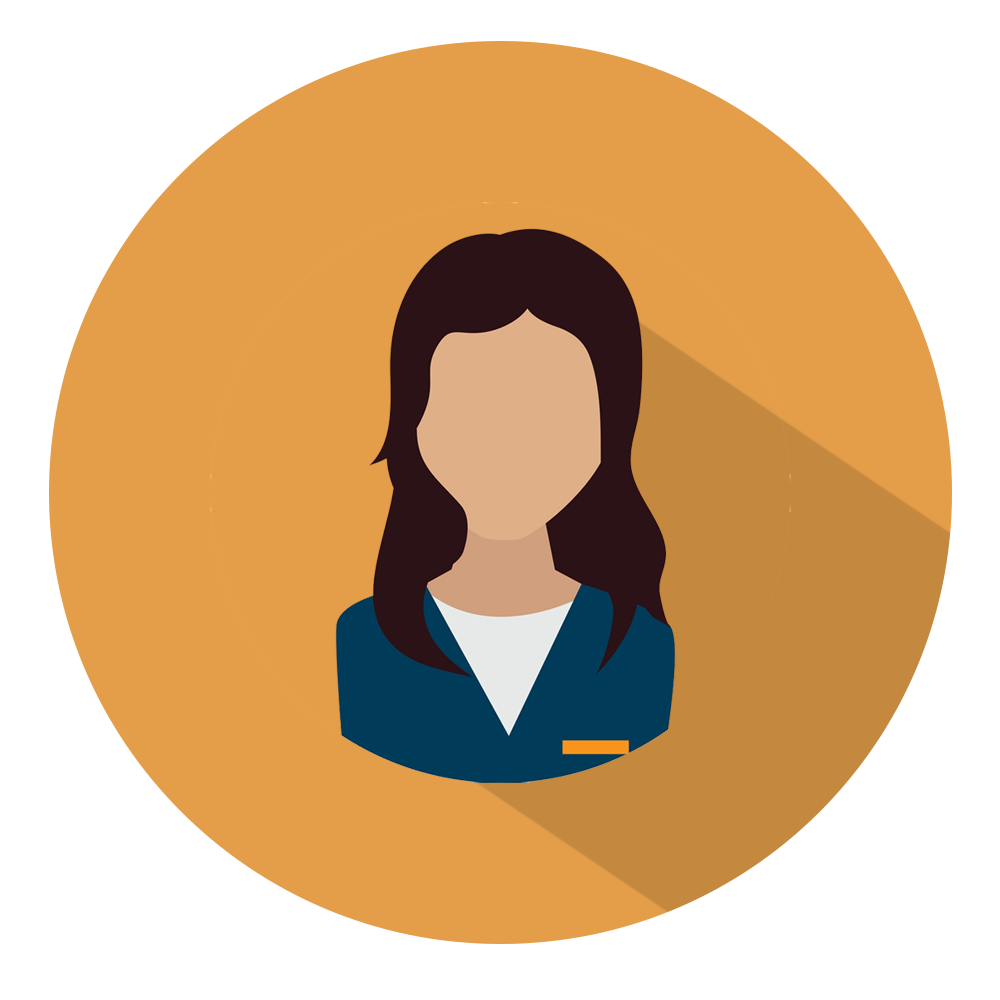
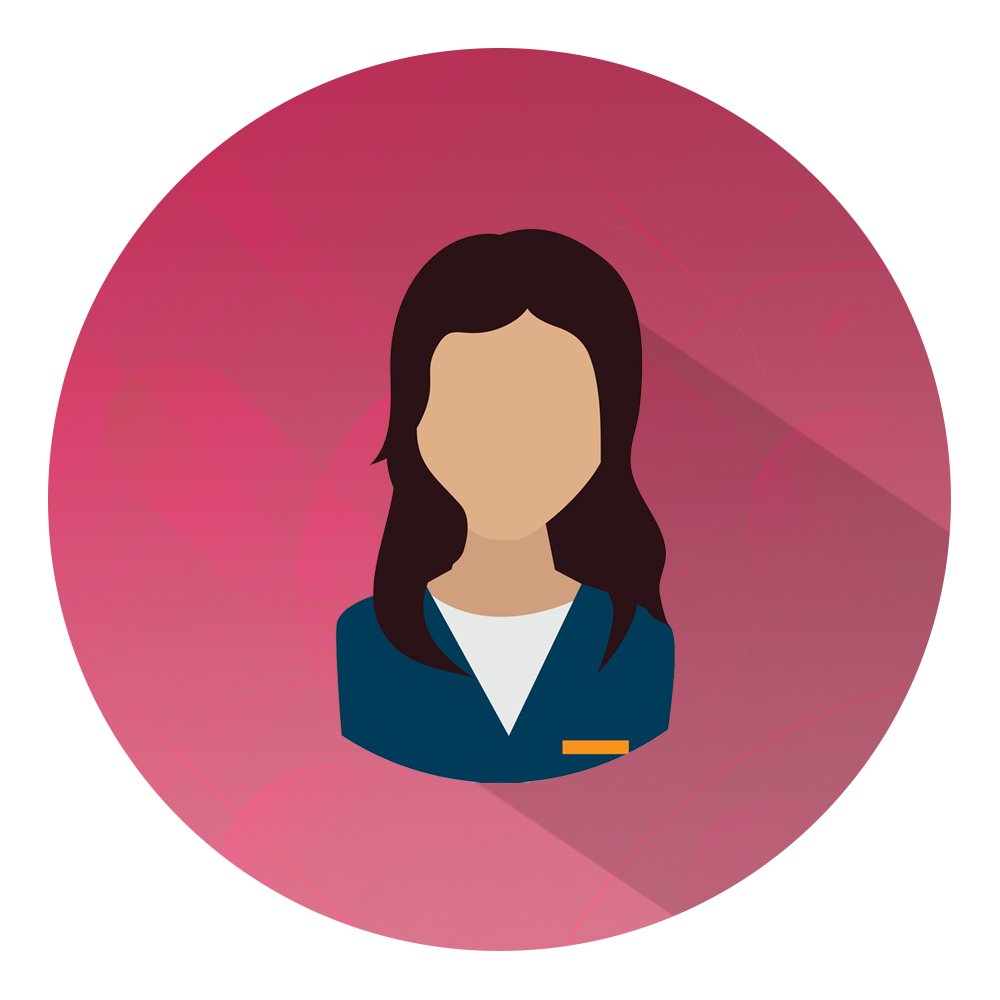
Changing somethings for identity purpose

diff --git a/assets/css/classes.css b/assets/css/classes.css
@@ -59,7 +59,7 @@ h1,h2,h3,h4,h5,h6,p,a{
   font-size: 26px;
   color: white;
   padding: 20px;
-  border: 2px #ffcc8e solid;
+  border: 2px #e87892 solid;
   border-radius: 30px;
   transition: all 0.4s ease;
 
@@ -69,8 +69,8 @@ h1,h2,h3,h4,h5,h6,p,a{
 {
   text-decoration: none;
   color: White;
-  background: #e49e49;
-  border: 2px #e49e49 solid;
+  background: #e87892;
+  border: 2px #e87892 solid;
 
   transition: all 0.4s ease;
 
@@ -108,7 +108,7 @@ h1,h2,h3,h4,h5,h6,p,a{
 
 .home-underabout
 {
-  border-bottom: 4px #f5740f solid;
+  border-bottom: 4px #ea0e4f  solid;
   padding-bottom: 7px;
 }
 

diff --git a/assets/css/main.css b/assets/css/main.css
@@ -129,7 +129,7 @@ footer .fab
 {
   text-align: center;
   color: white;
-  border-bottom: 4px #f5740f solid;
+  border-bottom: 4px #e87892  solid;
   padding-bottom: 5px;
   margin: 0;
   padding: 6px;
@@ -166,7 +166,7 @@ footer .fab
       -ms-flex-align: center;
       align-items: center;
       width: 100%;
-      background: #b18534eb;
+      background: #b13451f7;
 
     }
 }
